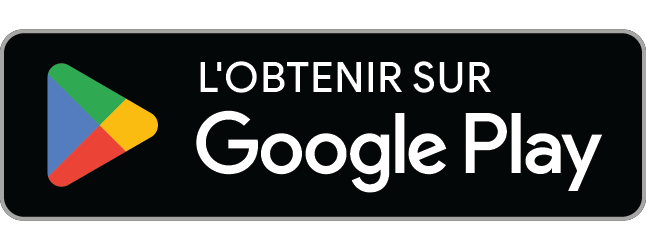
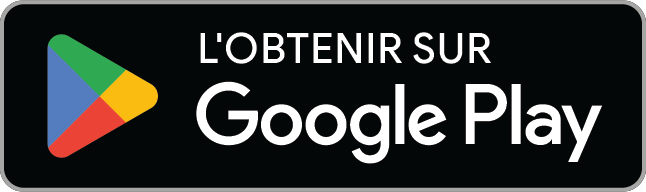
Store badges: Google Play PNGs cropped to the visible badge so both badges are the same height (#186, HQ check)

diff --git a/docs/decisions.md b/docs/decisions.md
@@ -3222,3 +3222,6 @@ Numbered log. Newest at the bottom.
      - Checked on the dev server, desktop and phone, EN and FR, lake and ice: no overlap, no console errors. Sheet
        `docs/2026-10-28-share-badges-store-style.jpg` sent to Jason; waiting for his look before HQ rebuilds.
      - `index.jsx` was touched for the placement lines only (buttons are the phone chat's, #176 note from HQ); the ice chat told.
+     - HQ's check (2026-10-28): Google's PNG carries its own transparent margin, so at the same box height its badge looked
+       smaller than Apple's. The two PNGs are cropped to their visible shape (en 564×168, fr 646×192), so at 40 px both badges
+       are the same height; Google asks for equal size side by side. Sheet redone.
